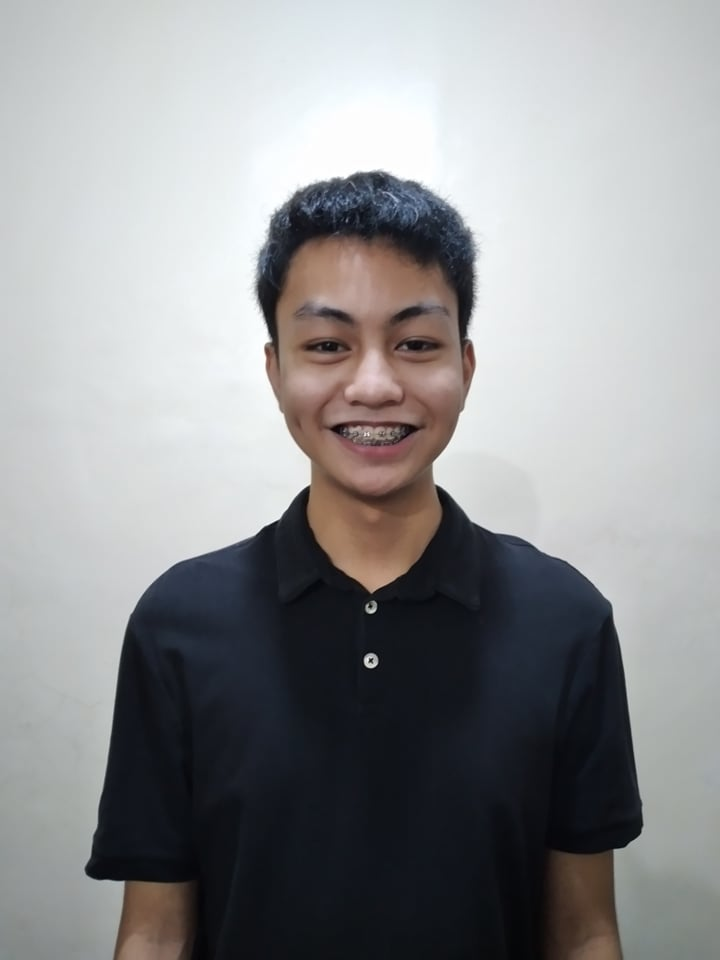
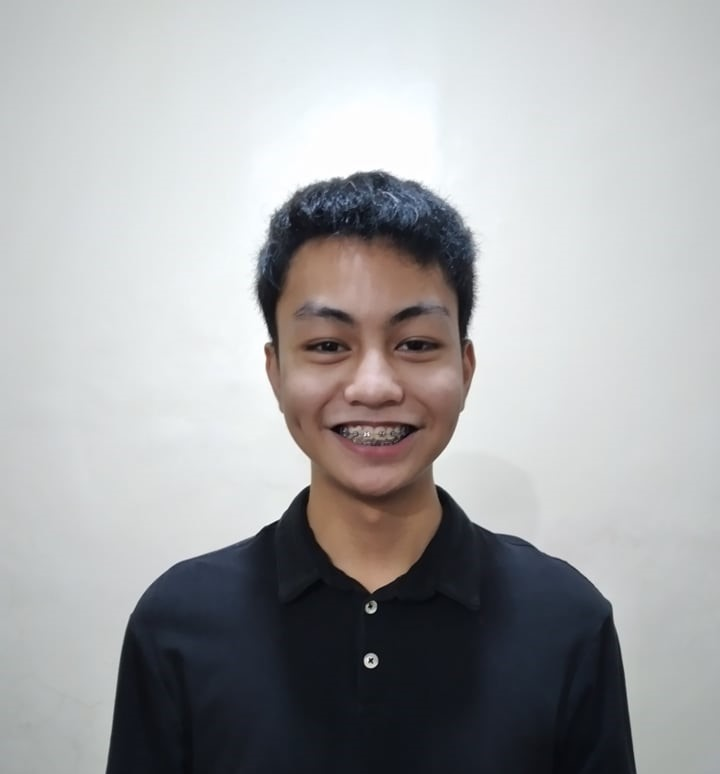
- fixed about me picture

Changed region(s): [[0.0, 0.155, 1.0, 1.0], [0.4889, 0.8372, 0.55, 0.8682]]

diff --git a/components/about-section.tsx b/components/about-section.tsx
@@ -1,11 +1,11 @@
 import { Card, CardContent } from "@/components/ui/card"
 import { FadeIn } from "./fade-in"
-import { FloatingElements } from "./floating-elements"
+
 
 export function AboutSection() {
   return (
     <section id="about" className="py-20 bg-muted/30 relative">
-      <FloatingElements />
+      
       <div className="container mx-auto px-4 sm:px-6 lg:px-8">
         <div className="max-w-4xl mx-auto">
           <FadeIn delay={200}>
@@ -20,7 +20,7 @@ export function AboutSection() {
                 <Card className="hover:shadow-lg hover:shadow-primary/10 transition-all duration-300">
                   <CardContent className="p-8">
                     <div className="w-full h-64 rounded-lg overflow-hidden hover:scale-105 transition-transform duration-300 shadow-md">
-                      <img src="/me2.jpeg" alt="John Doe - About Me" className="w-full h-full object-cover" />
+                      <img src="/me.jpg" alt="" className="w-full h-full object-cover" />
                     </div>
                   </CardContent>
                 </Card>
